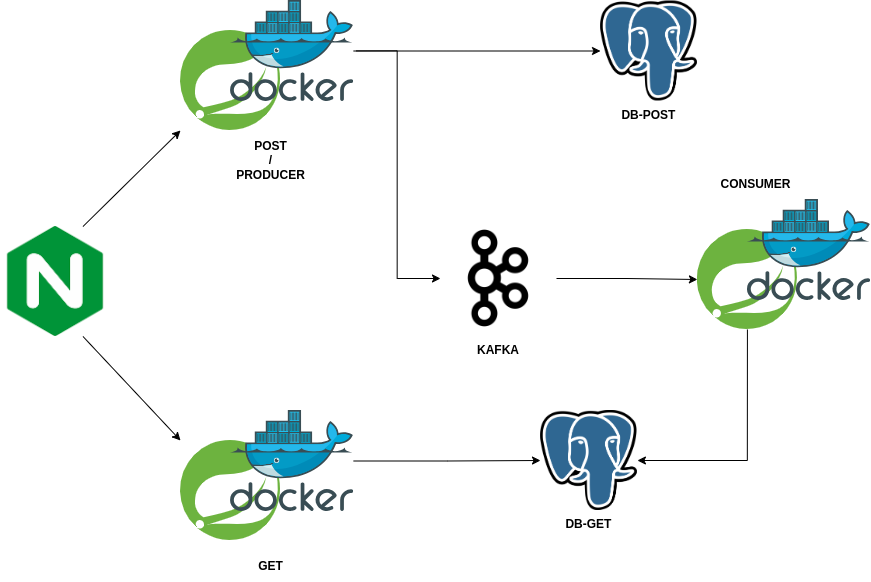
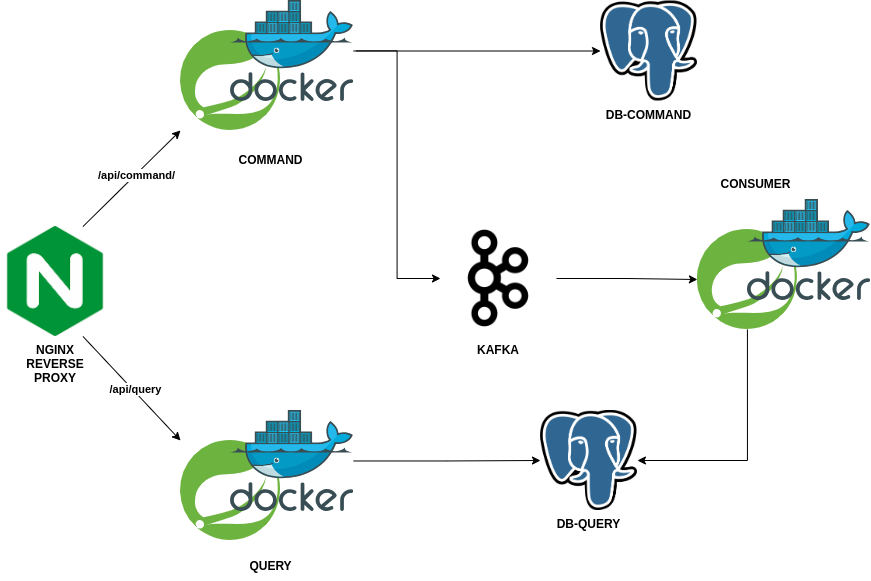
Descripción

diff --git a/README.md b/README.md
@@ -1,0 +1,34 @@
+# Microservicios - CQRS
+#### _Command Query Responsibility Segregation_
+>
+> **_CQRS_** es un patrón de diseño de software para microservicios que implementa la separación de lógica de nuestras aplicaciones para las acciones de escritura y lectura de datos.
+>
+> Las siglas **_CQRS_** vienen del inglés y significan “**C**ommand **Q**uery **R**esponsibility **S**egregation”. Lo que se puede traducir en separación en la responsabilidad de lecturas y comandos.
+>
+> 
+
+## Stack
+
+- SpringBoot 3.1.2
+- JDK17
+- Maven
+- Postgres
+- Kafka
+- Docker | Docker Compose
+- NGINX
+
+
+## Build
+
+```shell
+mvn clean install
+```
+
+## Run
+
+```shell
+docker-compose -f docker-compose.yaml -p microservicios-cqrs up -d --build
+``` 
+
+## Arquitectura
+![CQRS](./diagrama.png "CQRS")
